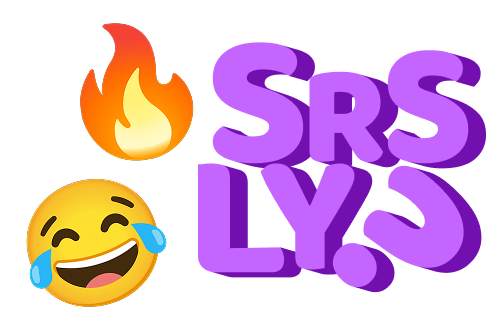
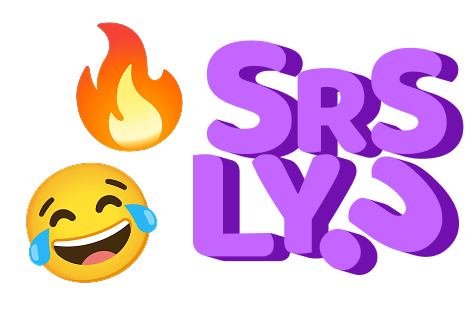
ui fixes

diff --git a/apps/web/app/components/canvas/bottom-menu.tsx b/apps/web/app/components/canvas/bottom-menu.tsx
@@ -47,14 +47,14 @@ const StickerMenu = () => {
   return (
     <Popover open={open} onOpenChange={setOpen}>
       <PopoverTrigger
-        className={`cursor-pointer relative  w-[128px] h-full hover:bg-insertionHover px-[12px]`}
+        className={`cursor-pointer relative  w-[128px] h-full group hover:bg-insertionHover px-[12px]`}
       >
         <div className="flex items-center justify-center gap-1 cursor-pointer relative w-full h-full">
-          <div className="flex-1 hover:scale-[1.1] hover:rotate-[-4deg] transition-all ">
+          <div className="flex-1 group-hover:scale-[1.1] group-hover:rotate-[-4deg] transition-all duration-200">
             <img
               src="/insertion-menu/emoji.png"
               alt="emoji-picker-1"
-              className="left-[23px] w-[81px] h-[49px] object-cover"
+              className="left-[23px] w-[76px] h-[46px] object-cover"
             />
           </div>
           <ArrowDown />
@@ -105,14 +105,14 @@ const CardMenu = () => {
       className="flex overflow-hidden scroll-pb-3 relative w-[128px] h-full hover:bg-insertionHover group justify-around"
     >
       <div
-        className="w-[50px] h-[70px] rounded-sm -rotate-[21deg] top-[14px] absolute group-hover:scale-[120%] group-hover:-rotate-6 transition-all duration-200"
+        className="w-[50px] h-[70px] rounded-sm -rotate-[21deg] top-[20px] absolute group-hover:scale-[120%] group-hover:-rotate-6 transition-all duration-200"
         style={{
           background: "rgba(203, 191, 255, 1)",
           boxShadow: "0px 0px 1px 0px rgba(0, 0, 0, 0.5)",
         }}
       ></div>
       <div
-        className="w-[50px] h-[70px] rounded-sm top-[14px] absolute group-hover:scale-[120%] group-hover:rotate-2 transition-all duration-200"
+        className="w-[50px] h-[70px] rounded-sm top-[20px] absolute group-hover:scale-[120%] group-hover:rotate-2 transition-all duration-200"
         style={{
           background: "rgba(255, 232, 147, 1)",
           boxShadow: "0px 0px 1px 0px rgba(0, 0, 0, 0.5)",

diff --git a/apps/web/app/components/svg/link.tsx b/apps/web/app/components/svg/link.tsx
@@ -1,24 +1,7 @@
 import type { SVGProps } from "react";
 
 const Link = (props: SVGProps<SVGSVGElement>) => (
-  <svg
-    xmlns="http://www.w3.org/2000/svg"
-    width="16"
-    height="16"
-    fill="none"
-    {...props}
-  >
-    <path
-      stroke="#000"
-      stroke-linecap="round"
-      d="M6.666 8.82c.094.154.206.3.336.436a2.373 2.373 0 0 0 3.455 0l2.16-2.248a2.617 2.617 0 0 0 0-3.596 2.376 2.376 0 0 0-3.455 0l-.476.495"
-    />
-    <path
-      stroke="#000"
-      stroke-linecap="round"
-      d="m7.313 12.093-.476.495a2.376 2.376 0 0 1-3.455 0 2.617 2.617 0 0 1 0-3.596l2.16-2.247a2.376 2.376 0 0 1 3.455 0c.13.135.241.281.336.436"
-    />
-  </svg>
+<svg xmlns="http://www.w3.org/2000/svg" width="16" height="16" fill="none"><path stroke="#000" stroke-linecap="round" stroke-width="1.2" d="M6.667 8.82c.094.154.206.3.336.436a2.373 2.373 0 0 0 3.455 0l2.16-2.248a2.617 2.617 0 0 0 0-3.596 2.376 2.376 0 0 0-3.456 0l-.476.495"/><path stroke="#000" stroke-linecap="round" stroke-width="1.2" d="m7.313 12.093-.475.495a2.376 2.376 0 0 1-3.456 0 2.617 2.617 0 0 1 0-3.596l2.16-2.247a2.376 2.376 0 0 1 3.455 0c.13.135.242.281.336.436"/></svg>
 );
 
 export default Link;

diff --git a/apps/web/app/components/canvas/sections/summary/index.tsx b/apps/web/app/components/canvas/sections/summary/index.tsx
@@ -61,7 +61,7 @@ export default function SummarySection() {
     <div
       key={`summary-section`}
       ref={sectionRef}
-      className="shrink-0 bg-white rounded-2xl border border-dashed border-[#0000000F] p-20 flex flex-col justify-center items-center"
+      className="shrink-0 bg-white rounded-2xl border overflow-hidden border-[#0000000F] p-20 flex flex-col justify-center items-center"
       data-clear-selection
       style={{
         width: CanvasConstants.IntroSectionWidth,
@@ -83,6 +83,13 @@ export default function SummarySection() {
           {isLoading ? "Generating summary..." : "Generate summary"}
         </Button>
       </div>
+      <div className="absolute top-0 repeat-3 rounded-2xl overflow-hidden">
+            <img
+              src="/insertion-menu/gradient-ai.png"
+              alt="emoji-picker-1"
+              className="left-[23px] w-full object-cover"
+            />
+          </div>
     </div>
   );
 }

diff --git a/apps/web/app/components/canvas/sections/section.tsx b/apps/web/app/components/canvas/sections/section.tsx
@@ -29,7 +29,7 @@ function SectionNameEditor({
 
   return (
     <div
-      className="absolute left-[10px] top-[10px] border rounded-2xl border-gray-200 p-3"
+      className="absolute left-[10px] top-[10px] border rounded-full border-gray-200 font-normal px-3 py-1"
       onDoubleClick={onEdit}
     >
       {isEditing ? (
